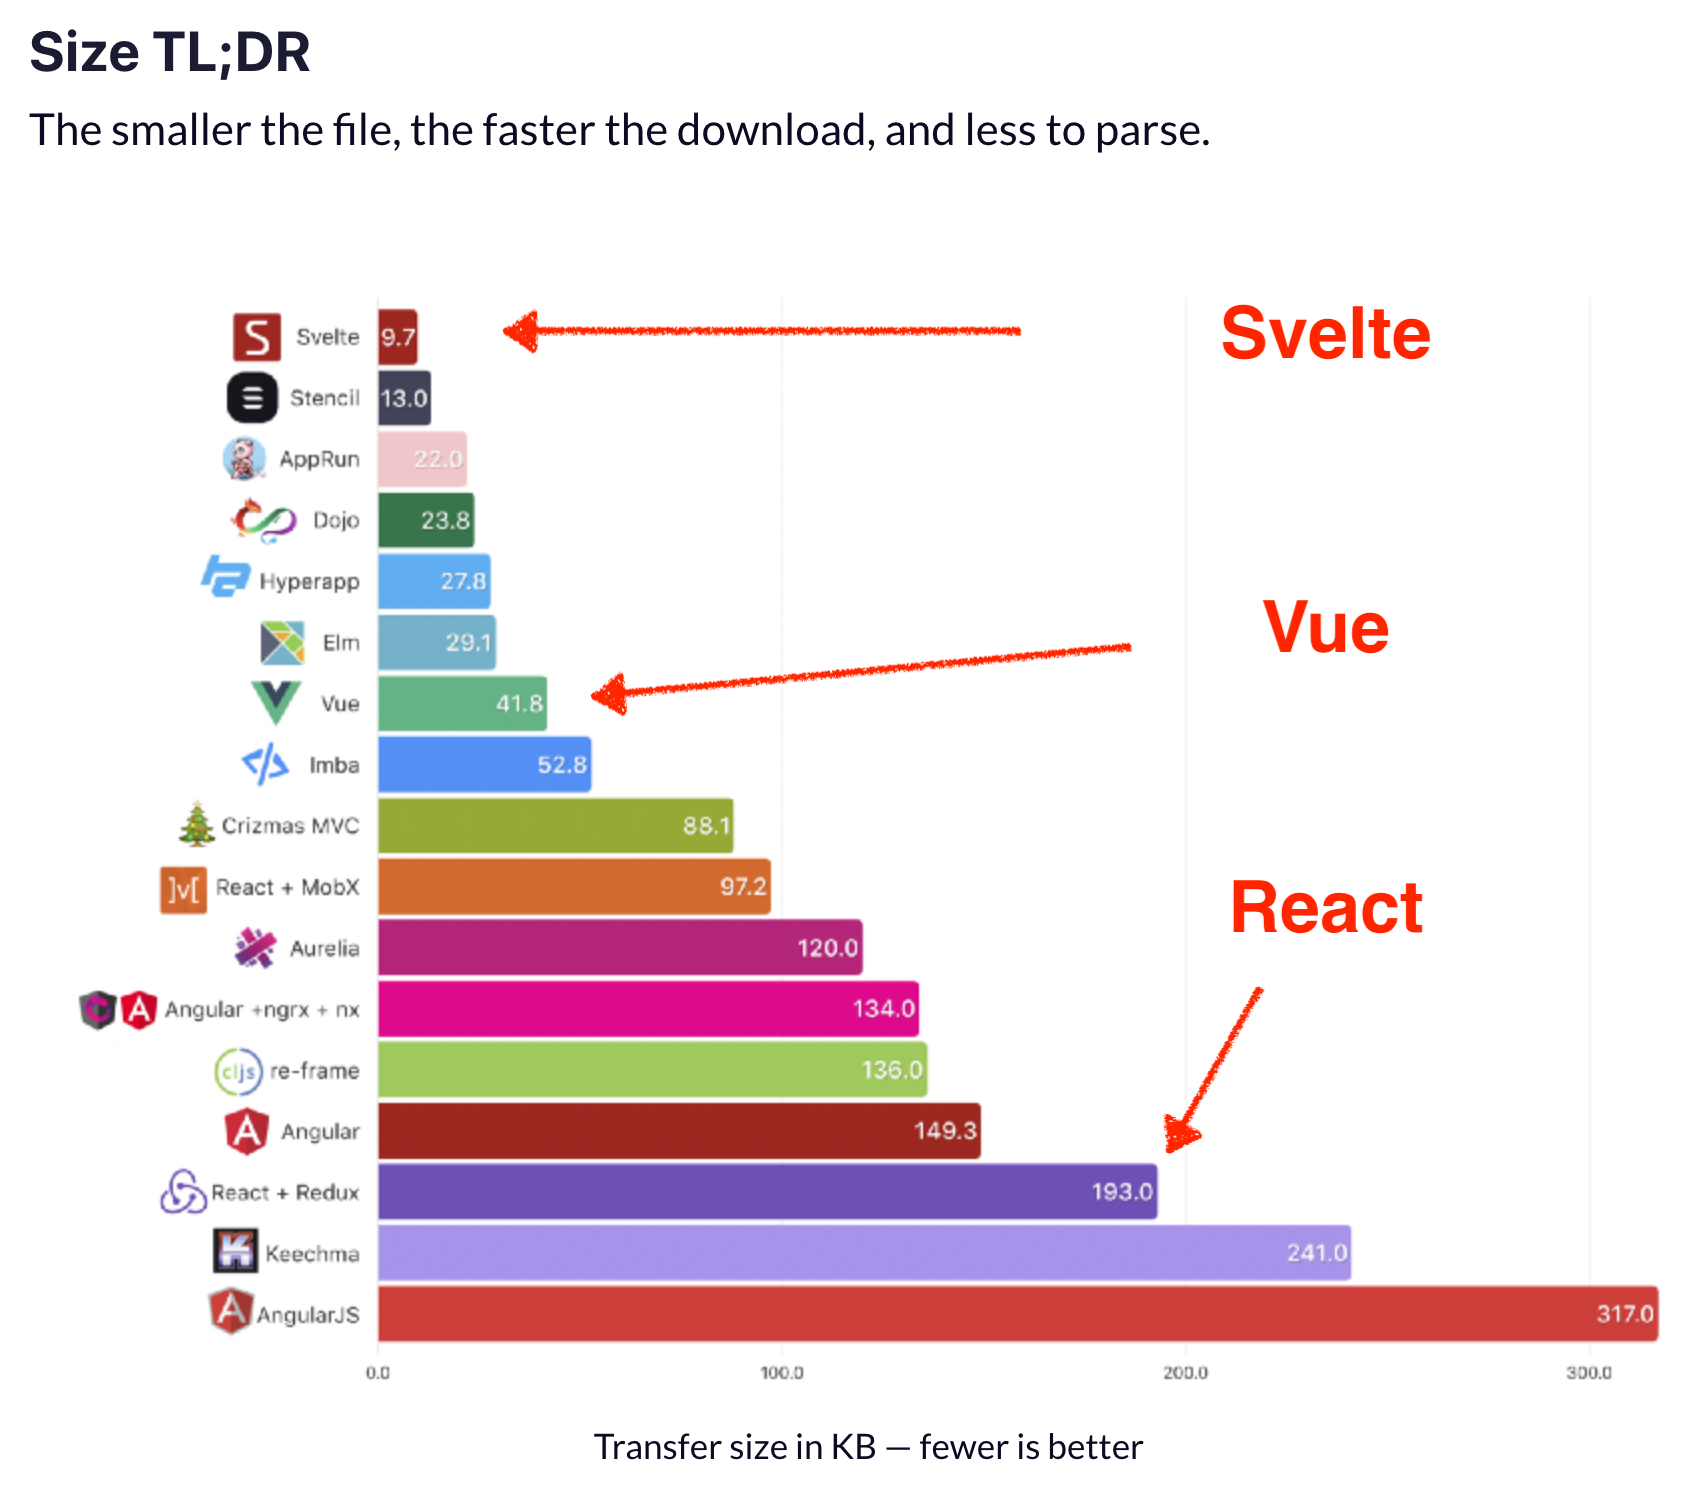
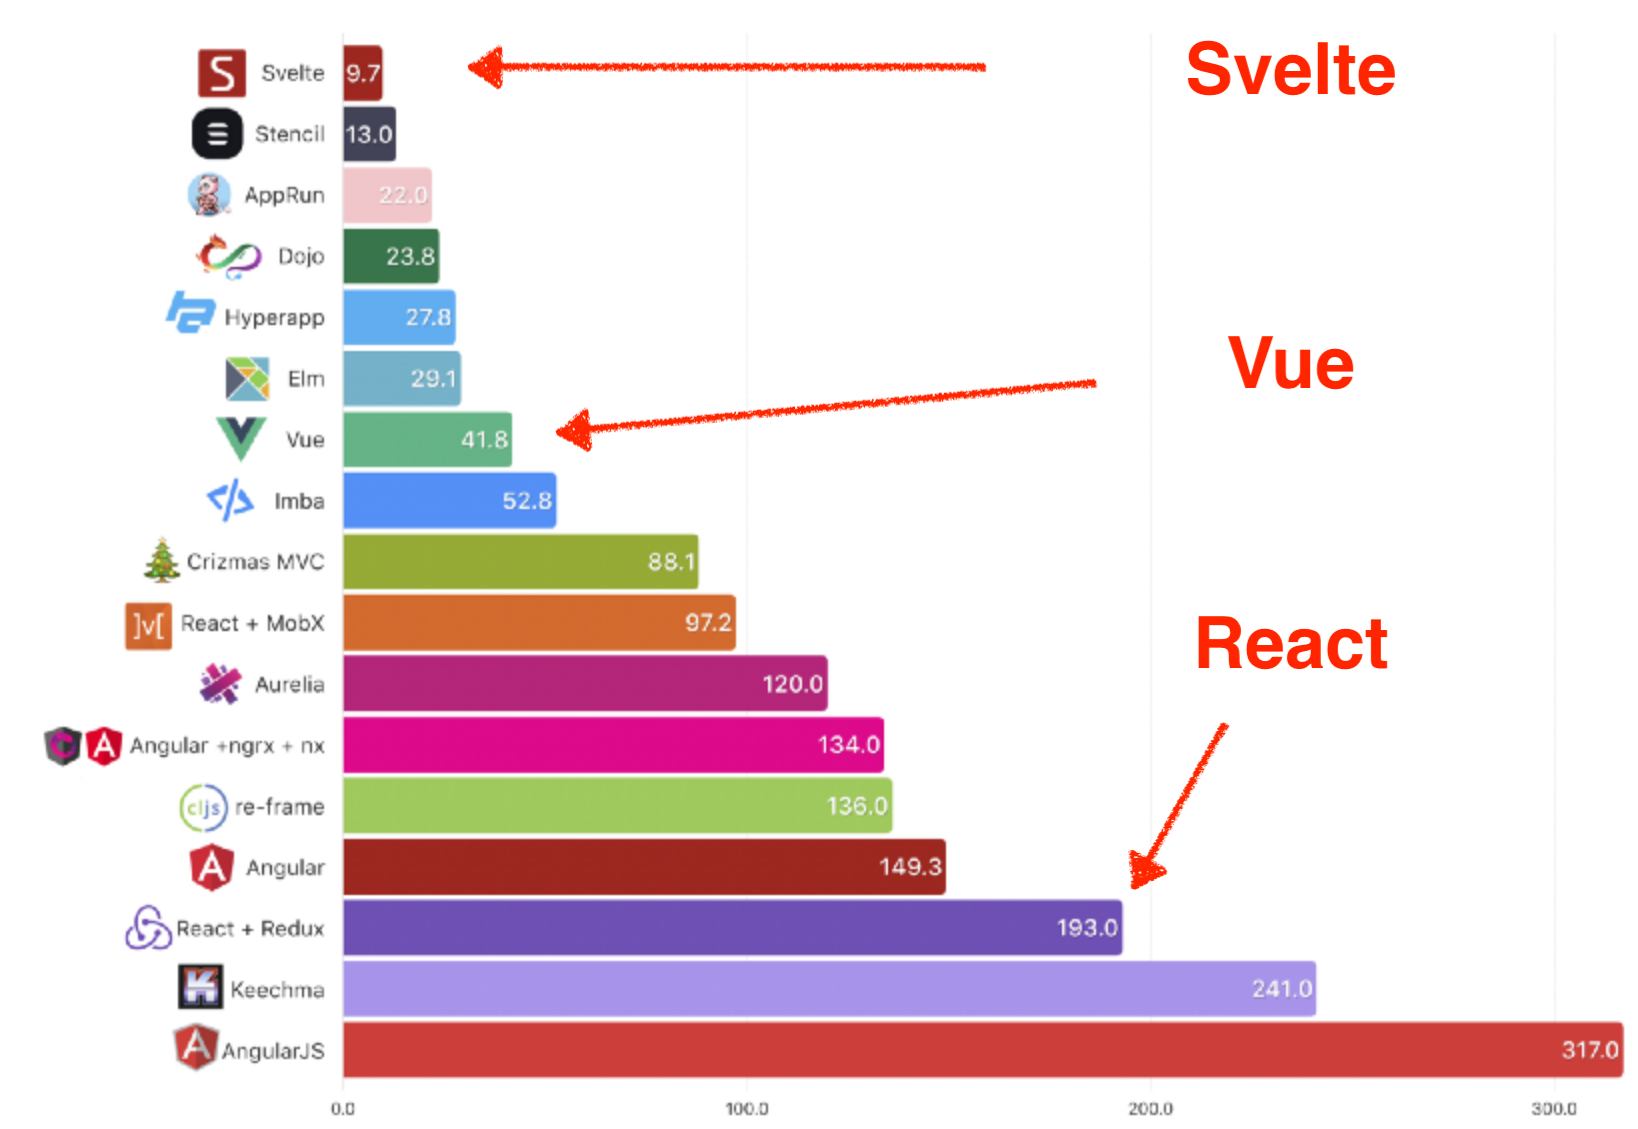
:memo: Add context to graphs in the start of the tasks

diff --git a/TASKS.md b/TASKS.md
@@ -31,13 +31,23 @@ A workshop by [Eirik Vågeskar](https://github.com/vages), with the help of [Joh
 >
 > We're proud that Svelte was recently voted the [most loved framework](https://insights.stackoverflow.com/survey/2021#section-most-loved-dreaded-and-wanted-web-frameworks) with the [most satisfied developers](https://2020.stateofjs.com/en-US/technologies/front-end-frameworks/) in a pair of industry surveys. We think you'll love it too. Read [the introductory blog post](https://svelte.dev/blog/svelte-3-rethinking-reactivity) to learn more.
 
-#### Svelte's advantages
+According to multiple benchmarks, an application written in Svelte usually become smaller and faster than an equivalent application in React or Vue. The following quotes and pictures are from [A RealWorld Comparison of Front-End Frameworks with Benchmarks (2019 update)](https://www.freecodecamp.org/news/a-realworld-comparison-of-front-end-frameworks-with-benchmarks-2019-update-4be0d3c78075/):
 
-The applications you write in Svelte are usually [smaller and faster than an equivalent application is in React or Vue](https://www.freecodecamp.org/news/a-realworld-comparison-of-front-end-frameworks-with-benchmarks-2019-update-4be0d3c78075/).
+> ##### Metric #2: Size
+>
+> … The smaller the file, the faster the download, and less to parse.
+>
+> ![Facsimile of https://www.freecodecamp.org/news/a-realworld-comparison-of-front-end-frameworks-with-benchmarks-2019-update-4be0d3c78075/ comparing transfer size for Svelte and several other frameworks][transfer-size-png]
+>
+> … Svelte — The magical disappearing UI framework — really holds true to its punch line.
 
-![Facsimile of https://www.freecodecamp.org/news/a-realworld-comparison-of-front-end-frameworks-with-benchmarks-2019-update-4be0d3c78075/ comparing transfer size for Svelte and several other frameworks][transfer-size-png]
-
-![Facsimile of https://www.freecodecamp.org/news/a-realworld-comparison-of-front-end-frameworks-with-benchmarks-2019-update-4be0d3c78075/ comparing lines of source code for Svelte and several other frameworks][source-code-size-png]
+> ##### Metric #3: Lines of Code
+>
+> … This shows how succinct given library/framework/language is. How many lines of code do you need to implement almost the same app (some of them have a bit more belts and whistles) accordingly to the specification.
+>
+> ![Facsimile of https://www.freecodecamp.org/news/a-realworld-comparison-of-front-end-frameworks-with-benchmarks-2019-update-4be0d3c78075/ comparing lines of source code for Svelte and several other frameworks][source-code-size-png]
+>
+> … If you care about you LoC you should check out ClojureScript, AppRun, and Svelte.
 
 ### You need the following on your computer
 

diff --git a/locale/nob/TASKS.md b/locale/nob/TASKS.md
@@ -22,19 +22,29 @@ Overfor brettet ser man at poengsummen er 0.][gameplay-png]
 >
 > Vi er stolte over at Svelte nylig ble stemt frem som det [best likte rammeverket](https://insights.stackoverflow.com/survey/2021#section-most-loved-dreaded-and-wanted-web-frameworks) med [de mest fornøyde utviklerne](https://2020.stateofjs.com/en-US/technologies/front-end-frameworks/) i to store undersøkelser blant programvareutviklere. Vi tror du også vil like det svært godt. Les [bloggposten som introduserte Svelte versjon 3](https://svelte.dev/blog/svelte-3-rethinking-reactivity) for å lære mer.
 
-#### Fordelene med Svelte
+Ifølge flere sammenlignende tester blir en applikasjon mindre om man skriver den i Svelte enn i React eller Vue. De følgende sitatene og bildene er fra [A RealWorld Comparison of Front-End Frameworks with Benchmarks (2019 update)](https://www.freecodecamp.org/news/a-realworld-comparison-of-front-end-frameworks-with-benchmarks-2019-update-4be0d3c78075/):
 
-Applikasjonene man skriver i Svelte blir som regel [mindre og raskere enn en tilsvarende applikasjon er i React eller Vue](https://www.freecodecamp.org/news/a-realworld-comparison-of-front-end-frameworks-with-benchmarks-2019-update-4be0d3c78075/).
-
-![Faksimile fra
+> ##### Metric #2: Size
+>
+> … The smaller the file, the faster the download, and less to parse.
+>
+> ![Faksimile fra
 https://www.freecodecamp.org/news/a-realworld-comparison-of-front-end-frameworks-with-benchmarks-2019-update-4be0d3c78075/
 som sammenligner overføringsstørrelse for Svelte og flere andre
 rammeverk][transfer-size-png]
+>
+> … Svelte — The magical disappearing UI framework — really holds true to its punch line.
 
-![Faksimile fra
+> ##### Metric #3: Lines of Code
+>
+> … This shows how succinct given library/framework/language is. How many lines of code do you need to implement almost the same app (some of them have a bit more belts and whistles) accordingly to the specification.
+>
+> ![Faksimile fra
 https://www.freecodecamp.org/news/a-realworld-comparison-of-front-end-frameworks-with-benchmarks-2019-update-4be0d3c78075/
 som sammenligner kildekodelinjer for Svelte og flere andre
 rammeverk][source-code-size-png]
+>
+> … If you care about you LoC you should check out ClojureScript, AppRun, and Svelte.
 
 ### Du må ha følgende på datamaskinen din
 
